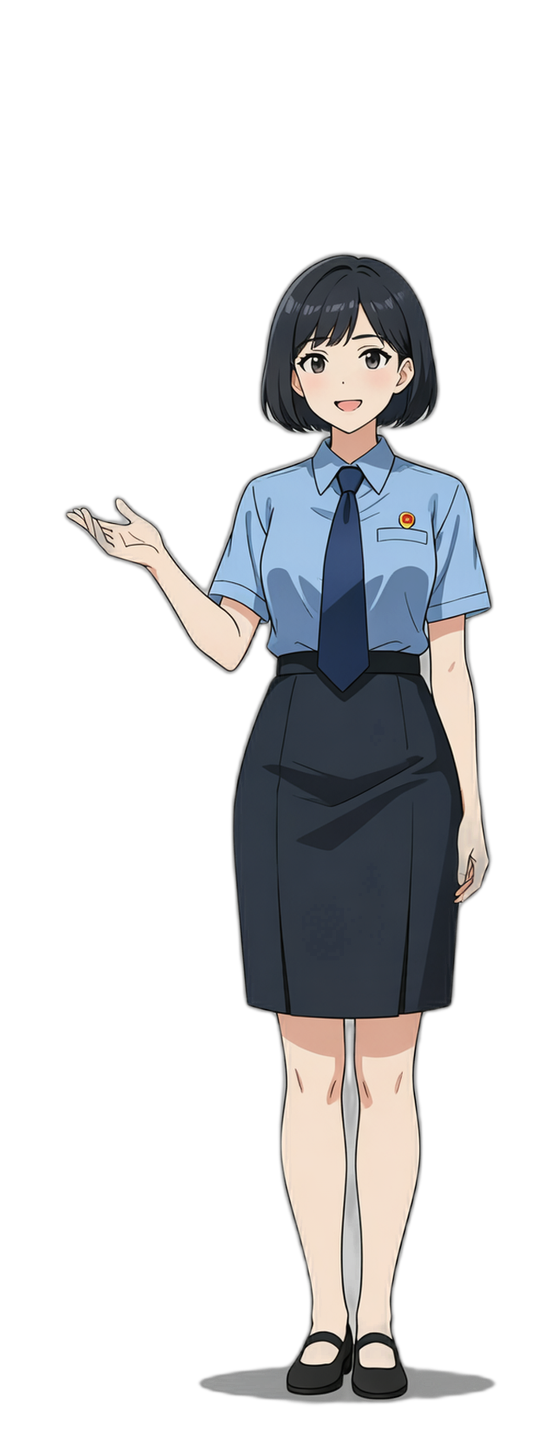
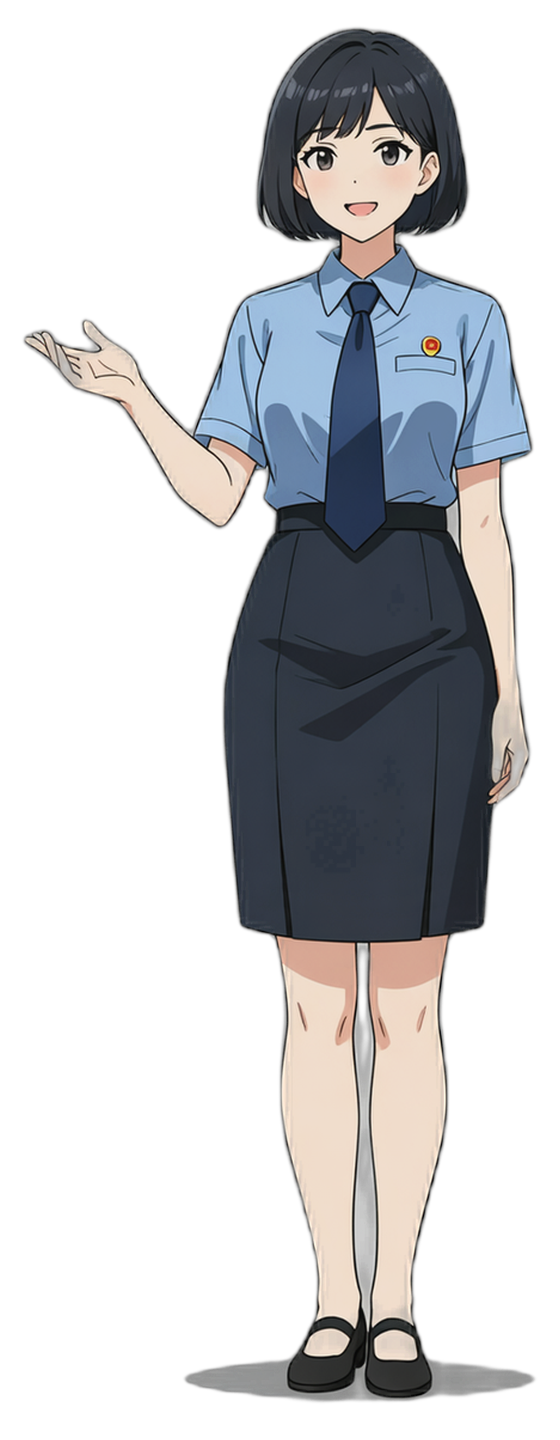
优化UI可见性、修复背景黑边、添加首页入口、完善剧情脉络进度
- 增强顶部状态栏对比度和可读性（更深渐变背景、更亮文字）
- 裁剪校门背景图顶部/底部黑边
- 首页新增"章节脉络"和"成就"快捷入口按钮
- 章节脉络图增加每章解锁进度和总进度条
- 修复检察官(explain/warm)和老师(serious)立绘尺寸偏小问题

diff --git a/index.html b/index.html
@@ -102,11 +102,11 @@ html,body{width:100%;height:100%;overflow:hidden;font-family:'PingFang SC','Hira
 .ending-restart:active{background:rgba(255,255,255,.08)}
 
 /* === STATS BAR (top) === */
-#stats-bar{position:absolute;top:0;left:0;right:0;z-index:15;display:none;align-items:center;justify-content:space-between;padding:.8rem 1rem .5rem;background:linear-gradient(180deg,rgba(0,0,0,.5) 0%,transparent 100%)}
+#stats-bar{position:absolute;top:0;left:0;right:0;z-index:15;display:none;align-items:center;justify-content:space-between;padding:.8rem 1rem .6rem;background:linear-gradient(180deg,rgba(0,0,0,.78) 0%,rgba(0,0,0,.45) 60%,transparent 100%)}
 #stats-bar.active{display:flex}
-.stat-item{font-size:.65rem;color:rgba(255,255,255,.45);letter-spacing:.05em}
-.stat-val{color:rgba(255,255,255,.7);font-weight:600}
-#menu-btn{width:32px;height:32px;display:flex;align-items:center;justify-content:center;cursor:pointer;opacity:.5}
+.stat-item{font-size:.7rem;color:rgba(255,255,255,.75);letter-spacing:.05em;text-shadow:0 1px 3px rgba(0,0,0,.6)}
+.stat-val{color:#fff;font-weight:600}
+#menu-btn{width:32px;height:32px;display:flex;align-items:center;justify-content:center;cursor:pointer;opacity:.75}
 #menu-btn svg{width:18px;height:18px}
 
 /* === MENU OVERLAY === */
@@ -154,7 +154,7 @@ html,body{width:100%;height:100%;overflow:hidden;font-family:'PingFang SC','Hira
 .map-branch::before{content:'';position:absolute;left:-1.05rem;top:0;bottom:0;width:2px;background:rgba(255,255,255,.04)}
 .map-branch-label{font-size:.68rem;color:rgba(150,130,200,.6);margin:.4rem 0 .2rem .3rem;letter-spacing:.06em}
 .map-chapter{margin-bottom:1.2rem}
-.map-ch-header{font-size:.78rem;letter-spacing:.1em;margin-bottom:.5rem;padding-left:.5rem;border-left:3px solid #667eea}
+.map-ch-header{font-size:.78rem;letter-spacing:.1em;margin-bottom:.5rem;padding-left:.5rem;border-left:3px solid #667eea;display:flex;align-items:center}
 .map-dot{width:10px;height:10px;border-radius:50%;flex-shrink:0;transition:all .3s}
 .map-dot.small{width:8px;height:8px}
 .map-label{font-size:.72rem;color:rgba(255,255,255,.3);letter-spacing:.05em}
@@ -190,7 +190,7 @@ html,body{width:100%;height:100%;overflow:hidden;font-family:'PingFang SC','Hira
 #achieve-toast .toast-text{font-size:.72rem;color:rgba(232,160,64,.9);letter-spacing:.06em;white-space:nowrap}
 
 /* === STATS BAR MAP BUTTON === */
-#map-btn{width:24px;height:24px;cursor:pointer;margin-left:6px;display:flex;align-items:center;justify-content:center;opacity:.6}
+#map-btn{width:24px;height:24px;cursor:pointer;margin-left:6px;display:flex;align-items:center;justify-content:center;opacity:.75}
 #map-btn svg{width:16px;height:16px}
 
 /* === PARTICLE CANVAS === */
@@ -216,6 +216,18 @@ html,body{width:100%;height:100%;overflow:hidden;font-family:'PingFang SC','Hira
 .title-building-mid{display:none}
 .title-building-r{display:none}
 @media(max-width:480px){.title-main{font-size:2.8rem}.title-rays{width:260px;height:260px}.title-ray{height:150px}.title-emblem{width:95px;height:95px}}
+
+/* === TITLE EXTRA BUTTONS === */
+.title-extra-btns{display:flex;gap:.8rem;margin-top:1.2rem;z-index:2}
+.title-link-btn{padding:.5rem 1.2rem;border:1px solid rgba(255,255,255,.18);border-radius:30px;color:rgba(255,255,255,.6);font-size:.75rem;letter-spacing:.12em;cursor:pointer;background:rgba(0,0,0,.2);backdrop-filter:blur(6px);-webkit-backdrop-filter:blur(6px);transition:all .3s}
+.title-link-btn:active{background:rgba(255,255,255,.08);color:rgba(255,255,255,.85)}
+
+/* === CHAPTER MAP PROGRESS === */
+.map-progress{font-size:.68rem;color:rgba(255,255,255,.4);margin-left:auto;padding-left:.5rem;letter-spacing:.04em}
+.map-progress .prog-num{color:rgba(80,200,168,.8);font-weight:600}
+.map-total-progress{padding:.6rem 1.2rem;font-size:.75rem;color:rgba(255,255,255,.5);letter-spacing:.08em;border-bottom:1px solid rgba(255,255,255,.06)}
+.map-total-progress .prog-bar{display:inline-block;width:100px;height:4px;background:rgba(255,255,255,.08);border-radius:2px;margin-left:.5rem;vertical-align:middle;position:relative;overflow:hidden}
+.map-total-progress .prog-fill{height:100%;background:linear-gradient(90deg,#667eea,#50c8a8);border-radius:2px;transition:width .4s}
 </style>
 </head>
 <body>
@@ -237,6 +249,10 @@ html,body{width:100%;height:100%;overflow:hidden;font-family:'PingFang SC','Hira
     <div class="title-main">沉默的代价</div>
     <div class="title-sub">反校园霸凌互动剧情</div>
     <div class="title-start-btn" id="start-btn">开始游戏</div>
+    <div class="title-extra-btns" id="title-extra-btns">
+      <div class="title-link-btn" onclick="openChapterMap()">📖 章节脉络</div>
+      <div class="title-link-btn" onclick="openAchievePanel()">🏆 <span id="title-achieve-label">成就 0/10</span></div>
+    </div>
     <div class="title-credit">向每一位勇敢发声的少年致敬 | Music by Kevin MacLeod (incompetech.com) CC BY 4.0</div>
   </div>
 
@@ -727,10 +743,21 @@ const CHAPTER_TREE=[
 ];
 function openChapterMap(){
   const panel=$('chapter-map-panel');const scroll=$('map-scroll');scroll.innerHTML='';
+  // Total progress
+  let totalNodes=0,totalVisited=0;
+  CHAPTER_TREE.forEach(ch=>{ch.nodes.forEach(nd=>{totalNodes++;if(state.visitedNodes.has(nd.id))totalVisited++;if(nd.branches)nd.branches.forEach(br=>{totalNodes++;if(state.visitedNodes.has(br.id))totalVisited++})})});
+  const totalPct=totalNodes?Math.round(totalVisited/totalNodes*100):0;
+  const totalBar=document.createElement('div');totalBar.className='map-total-progress';
+  totalBar.innerHTML=`剧情解锁 ${totalVisited}/${totalNodes} (${totalPct}%) <span class="prog-bar"><span class="prog-fill" style="width:${totalPct}%"></span></span>`;
+  scroll.appendChild(totalBar);
   CHAPTER_TREE.forEach(ch=>{
+    // Chapter progress
+    let chTotal=0,chVisited=0;
+    ch.nodes.forEach(nd=>{chTotal++;if(state.visitedNodes.has(nd.id))chVisited++;if(nd.branches)nd.branches.forEach(br=>{chTotal++;if(state.visitedNodes.has(br.id))chVisited++})});
+    const chPct=chTotal?Math.round(chVisited/chTotal*100):0;
     const sec=document.createElement('div');sec.className='map-chapter';
     const hdr=document.createElement('div');hdr.className='map-ch-header';hdr.style.borderLeftColor=ch.color;
-    hdr.innerHTML=`<span style="color:${ch.color}">${ch.chapter}</span> <span style="color:rgba(255,255,255,.5)">${ch.title}</span>`;
+    hdr.innerHTML=`<span style="color:${ch.color}">${ch.chapter}</span> <span style="color:rgba(255,255,255,.5)">${ch.title}</span><span class="map-progress"><span class="prog-num">${chVisited}</span>/${chTotal}</span>`;
     sec.appendChild(hdr);
     ch.nodes.forEach(nd=>{
       const visited=state.visitedNodes.has(nd.id);const isCurrent=state.currentNode===nd.id;
@@ -802,6 +829,8 @@ function showAchieveToast(a){
 function updateAchieveCount(){
   const btn=$('menu-achieve-btn');
   if(btn)btn.textContent='成就 '+unlockedAchievements.size+'/'+ACHIEVEMENTS.length;
+  const titleLabel=$('title-achieve-label');
+  if(titleLabel)titleLabel.textContent='成就 '+unlockedAchievements.size+'/'+ACHIEVEMENTS.length;
 }
 function openAchievePanel(){
   const grid=$('achieve-grid');grid.innerHTML='';
@@ -843,7 +872,7 @@ function advanceDialog(node){
 }
 document.addEventListener('click',e=>{
   if(state.choicesActive||$('title-screen').classList.contains('active')||$('chapter-overlay').classList.contains('active')||$('ending-screen').classList.contains('active')||$('menu-overlay').classList.contains('active')||$('legal-panel').classList.contains('active')||$('chapter-map-panel').classList.contains('active')||$('achieve-panel').classList.contains('active'))return;
-  if(e.target.closest('.choice-btn')||e.target.closest('#menu-btn')||e.target.closest('.menu-item'))return;
+  if(e.target.closest('.choice-btn')||e.target.closest('#menu-btn')||e.target.closest('#map-btn')||e.target.closest('.menu-item')||e.target.closest('.title-link-btn'))return;
   let node=STORY[state.currentNode];if(!node)return;
   let rn={...node};if(typeof rn.dialog==='function')rn.dialog=rn.dialog();if(typeof rn.next==='function')rn.next=rn.next();if(typeof rn.chars==='function')rn.chars=rn.chars();
   if(state.typing){completeText();return}
